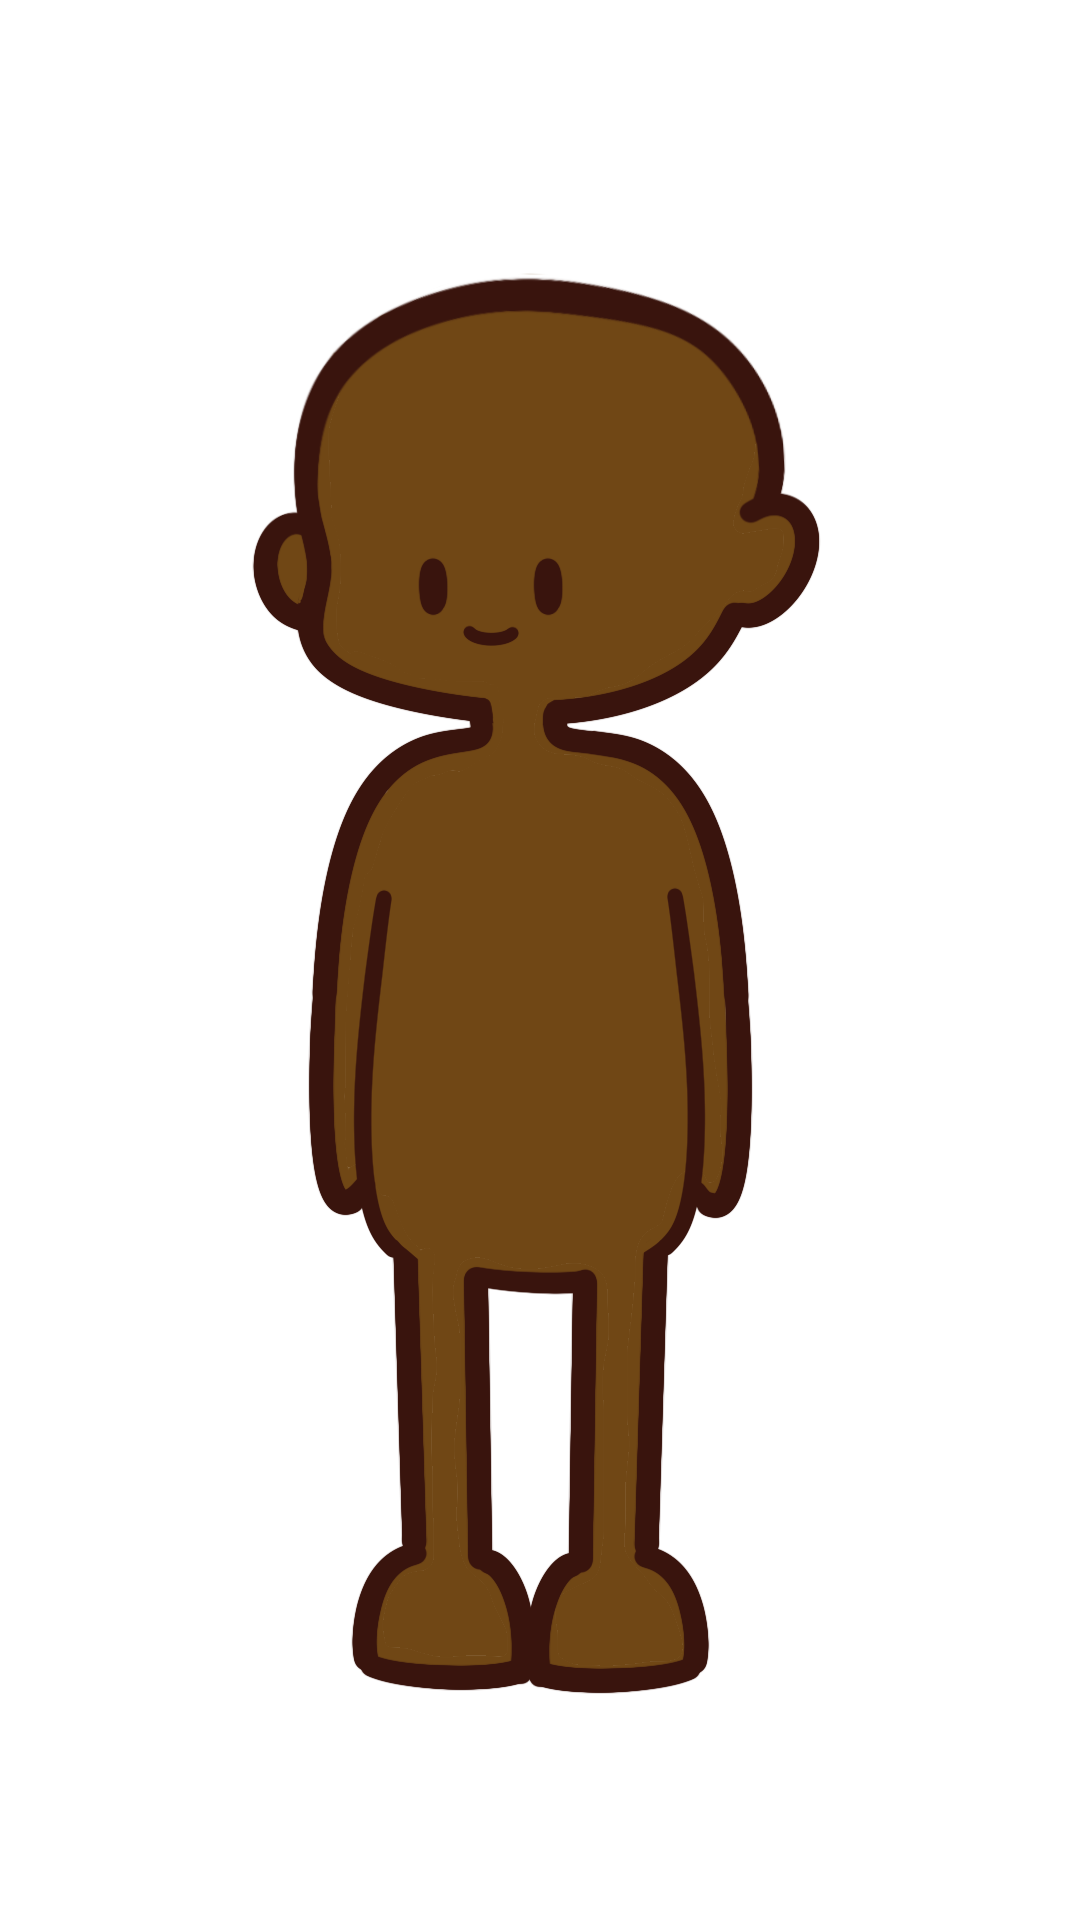
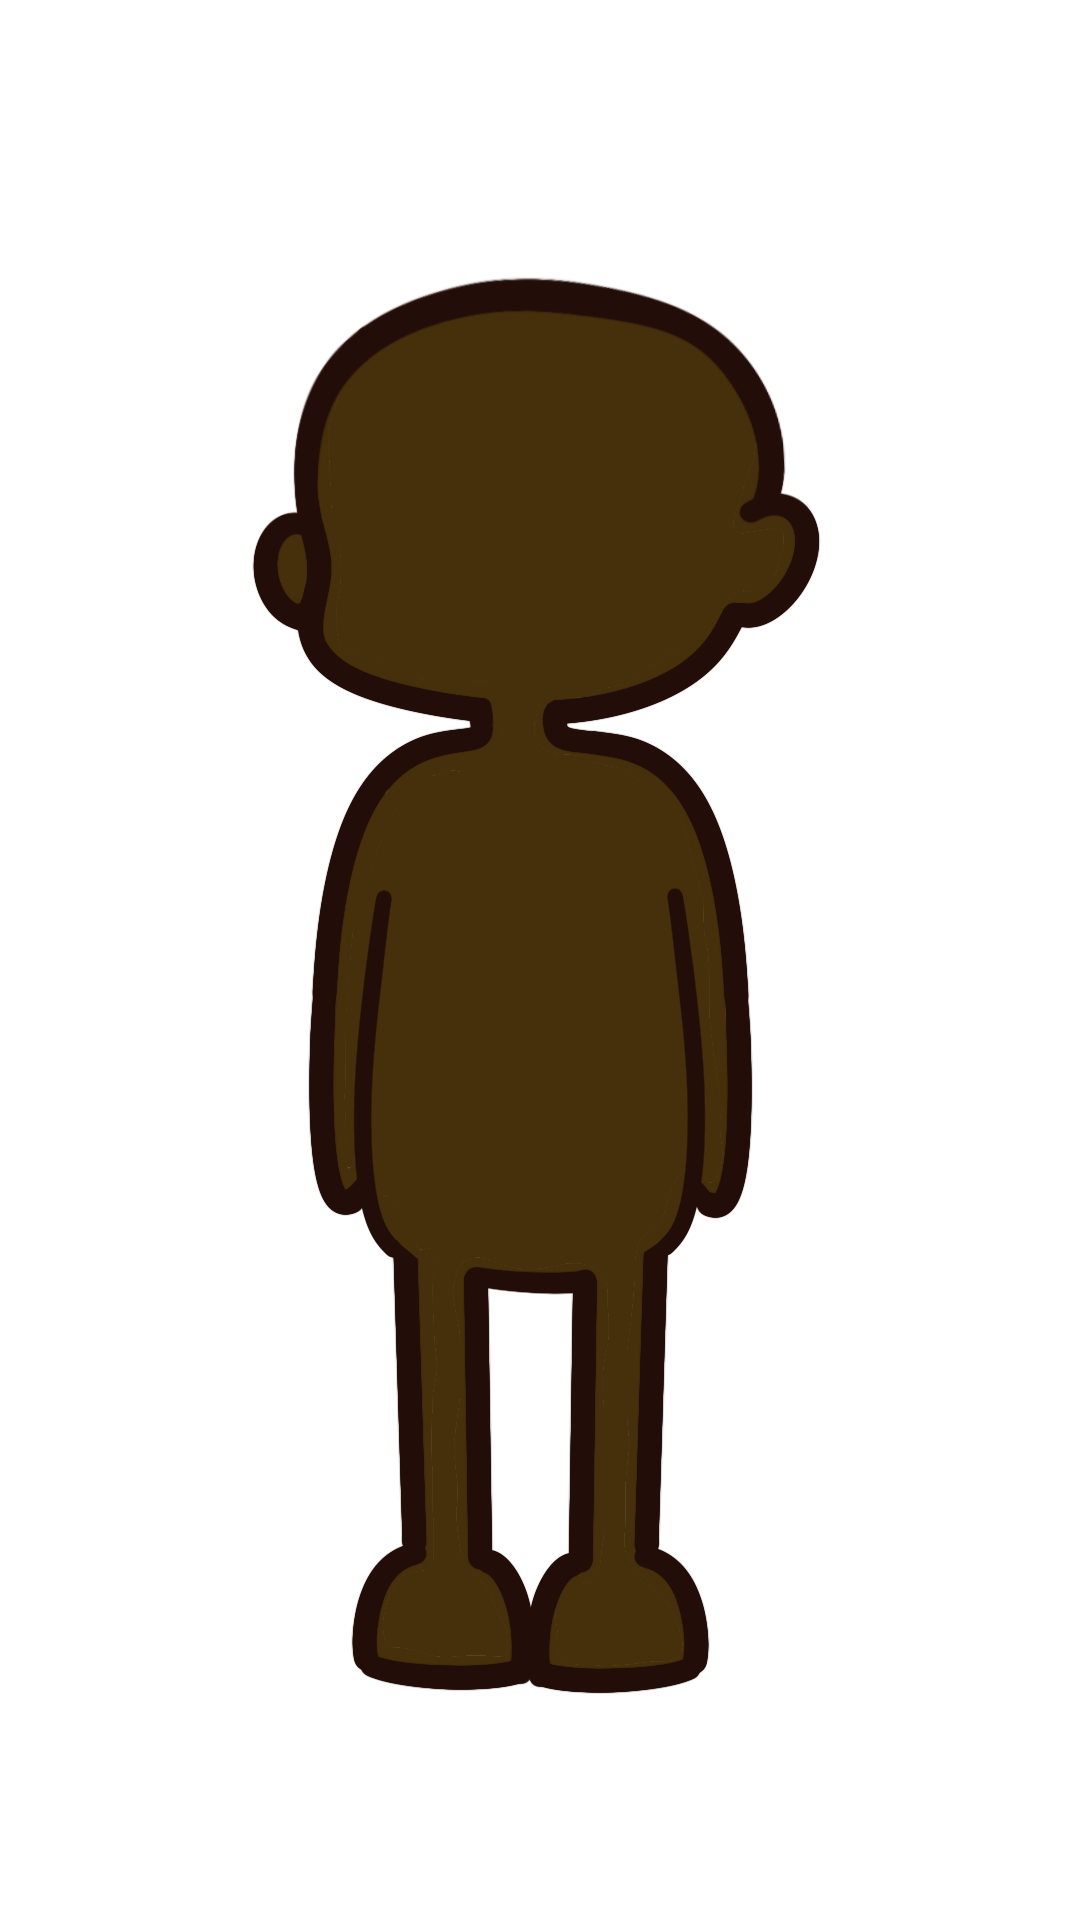
addign expressions and changing body assets

Changed region(s): [[0.2444, 0.1562, 0.7333, 0.875]]

diff --git a/app/assets/stylesheets/components/_avatar.scss b/app/assets/stylesheets/components/_avatar.scss
@@ -15,6 +15,14 @@
   bottom: -8%;
 }
 
+.avatar-expression {
+  width: 100%;
+  position: absolute;
+  left: 50%;
+  transform: translateX(-50%);
+  bottom: -8%;
+}
+
 .avatar-shoes {
   width: 100%;
   position: absolute;
@@ -77,6 +85,14 @@
 }
 
 .avatar-hair-op {
+  width: 80%;
+  position: absolute;
+  left: 50%;
+  transform: translateX(-50%);
+  bottom: -5%;
+}
+
+.avatar-expression-op {
   width: 80%;
   position: absolute;
   left: 50%;

diff --git a/app/controllers/submissions_controller.rb b/app/controllers/submissions_controller.rb
@@ -31,6 +31,7 @@ class SubmissionsController < ApplicationController
     if @submission.save
       # where do I want to redirect to? home path??
       redirect_to root_path, notice: "Thank you"
+      # @submission.goal.name
 
       # but doesn't change anything
     else
